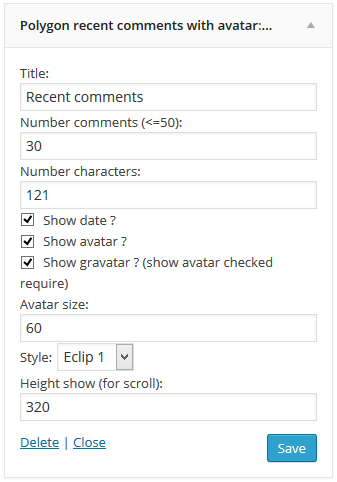
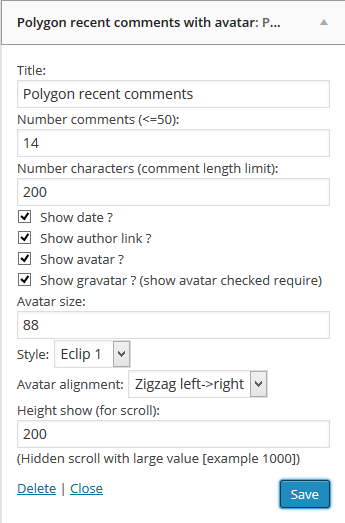
Update version 1.0.1 and fixed issue
git-svn-id: https://plugins.svn.wordpress.org/polygon-recent-comments-with-avatar/trunk@1101642 b8457f37-d9ea-0310-8a92-e5e31aec5664

Changed region(s): [[0.0, 0.0, 1.0, 1.0], [0.9199, 0.8091, 0.9496, 0.8714], [0.9199, 0.6846, 0.9496, 0.7158]]

diff --git a/polygon-recent-comments-with-avatar.php b/polygon-recent-comments-with-avatar.php
@@ -3,7 +3,7 @@
   Plugin Name: Polygon recent comments with avatar
   Plugin URI: http://cafefreelancer.com/vi/wordpress/wordpress-plugins/polygon-plugins/
   Description: Recent comments with image avatar, support gravatar, date, user
-  Version: 1.0
+  Version: 1.0.1
   Author: CafeFreelancer.com
   Author URI: http://CafeFreelancer.com
   License: GPLv2
@@ -46,14 +46,16 @@ class POLYGON_Widget_Recent_Comments extends WP_Widget {
         $num_comments = (isset($instance['num_comments']) ) ? $instance['num_comments'] : 5;
         $avatar_size = (isset($instance['avatar_size']) ) ? $instance['avatar_size'] : 88;
         $num_split= (isset($instance['num_split']) ) ? $instance['num_split'] : 121;
-        $show_date = (isset($instance['show_date'] )) ? $instance['show_avatar'] : 'false';
-        $show_avatar = (isset($instance['show_avatar'])) ? $instance['show_avatar'] : 'false';
-        $show_gravatar = (isset($instance['show_gravatar'])) ? $instance['show_gravatar'] : 'false';
+        $show_date = (isset($instance['show_date'] ) && !empty($instance['show_date'])) ? $instance['show_date'] : '';
+        $show_comment_link = (isset($instance['show_comment_link'] ) && !empty($instance['show_comment_link'])) ? $instance['show_comment_link'] : '';
+        $show_avatar = (isset($instance['show_avatar'])&& !empty($instance['show_avatar'])) ? $instance['show_avatar'] : '';
+        $show_gravatar = (isset($instance['show_gravatar'])&& !empty($instance['show_gravatar'])) ? $instance['show_gravatar'] : '';
         $avatar_layout = (isset($instance['avatar_layout']) ) ? $instance['avatar_layout'] : 'square';
+        $avatar_alignment = (isset($instance['avatar_alignment']) ) ? $instance['avatar_alignment'] : 'palignleft';
         $height_show = (isset($instance['height_show']) ) ? $instance['height_show'] : 200;
         //Get comments;
         $comments = get_comments(apply_filters('widget_comments_args', array('number' => $num_comments, 'status' => 'approve', 'post_status' => 'publish', 'type' => 'comment')));
-
+      
         if (!empty($comments)){
             $output .= $before_widget;
             if ($title)
@@ -62,7 +64,7 @@ class POLYGON_Widget_Recent_Comments extends WP_Widget {
             $output .= '<ul id="recentcomments">';
             if ($comments) {
                 ?>
-<style type="text/css">ul#recentcomments {list-style: none;padding: 0;margin: 0;max-height:<?php echo $height_show;?>px;overflow-y:auto;overflow-x:hidden}ul#recentcomments li.recentcomments {border-bottom: 1px solid #C6C6C6;margin: 0 0 8px;padding: 0 0 9px;background-image: none;list-style: none;display: inline-block}ul#recentcomments .alignleft { margin: 0 8px 0 0;padding: 0}ul#recentcomments img.avatar {background-color: #FFFFFF;border: 1px solid #C6C6C6;box-shadow: none;padding: 4px;margin: 0}ul#recentcoments .date{color:#CCC;font-size:12px;font-style:italic}.circle{border-radius: 50%;}.square{border-radius: 0%;}.eclip1{border-top-left-radius: 50%; border-top-right-radius: 0%; border-bottom-right-radius: 50%; border-bottom-left-radius: 0%;}.eclip2{border-top-left-radius: 0%; border-top-right-radius: 50%; border-bottom-right-radius: 0%; border-bottom-left-radius: 50%;}.eclip3{border-radius: 20% 50%;}.eclip4{border-radius: 50% 20%;}</style>
+<style type="text/css">ul#recentcomments {list-style: none;padding: 0;margin: 0;max-height:<?php echo $height_show;?>px;overflow-y:auto;overflow-x:hidden}ul#recentcomments li.recentcomments {border-bottom: 1px solid #C6C6C6;margin: 0 0 8px;padding: 0 0 9px;background-image: none;list-style: none;display: inline-block;clear:both}ul#recentcomments .palignleft,ul#recentcomments .palignleftright-0,ul#recentcomments .palignrightleft-1 {float:left; margin: 0 8px 0 0;padding: 0}ul#recentcomments .palignright,ul#recentcomments .palignrightleft-0,ul#recentcomments .palignleftright-1 {float:right; margin: 0 0 8px 0;padding: 0}ul#recentcomments img.avatar {background-color: #FFFFFF;border: 1px solid #C6C6C6;box-shadow: none;padding: 4px;margin: 0}ul#recentcoments .date{color:#CCC;font-size:12px;font-style:italic}.circle{border-radius: 50%;}.square{border-radius: 0%;}.eclip1{border-top-left-radius: 50%; border-top-right-radius: 0%; border-bottom-right-radius: 50%; border-bottom-left-radius: 0%;}.eclip2{border-top-left-radius: 0%; border-top-right-radius: 50%; border-bottom-right-radius: 0%; border-bottom-left-radius: 50%;}.eclip3{border-radius: 20% 50%;}.eclip4{border-radius: 50% 20%;}</style>
 <?php
                     if (!function_exists('polygon_validate_gravatar')){
 			function polygon_validate_gravatar($email) {
@@ -78,36 +80,48 @@ class POLYGON_Widget_Recent_Comments extends WP_Widget {
 				return $has_valid_avatar;
 			}
                     }
+                    if (!function_exists('get_Gravatar_Author')){
+                    function get_Gravatar_Author($email,$size){
+                            $email = trim($email);
+                            $email = strtolower($email);
+                            $email_hash = md5($email);
+                            return '<img class="comment-avatar-plc" src="http://www.gravatar.com/avatar/'. $email_hash. '?s='.$size.'" />';
+                    }}
 
                 // Prime cache for associated posts. (Prime post term cache if we need it for permalinks.)
                 $post_ids = array_unique(wp_list_pluck($comments, 'comment_post_ID'));
                 _prime_post_caches($post_ids, strpos(get_option('permalink_structure'), '%category%'), false);
-				$matchSrc = "/src=[\"' ]?([^\"' >]+)[\"' ]?[^>]*>/i" ;
-                foreach ((array) $comments as $comment) {
+		$matchSrc = "/src=[\"' ]?([^\"' >]+)[\"' ]?[^>]*>/i" ;
+                foreach ((array) $comments as $key=>$comment) {
                     $post_title_current = get_the_title($comment->comment_post_ID);
+                    $comment_link=($show_comment_link=='on')?get_comment_author_link():get_comment_author();
                     //Format date
                     $d = "d/m/Y";
                     //Format time
                     $t = "g:i A";
-					
 		$email=$comment->comment_author_email;
                     //Display Gravatar;
-                    if ($show_gravatar == true && polygon_validate_gravatar($email)) {
+                    if ($show_gravatar == 'on' && polygon_validate_gravatar($email)) {
                         $avatar = get_Gravatar_Author($email, $avatar_size);
                     } else {
-                        $avatar = get_avatar($email, $avatar_size);
+                        $avatar = get_avatar($email, $avatar_size);//functions only default gravatar;
                     }
 
                     preg_match($matchSrc, $avatar, $matches);
 					$theImageUrl = $matches[1];
-					
                     $cus_comment_date = get_comment_date($d, $comment->comment_ID) . __(' at ') . get_comment_date($t, $comment->comment_ID);
                     $output .= '<li class="recentcomments">';
-                    $output.=($show_avatar==true)? '<div class="alignleft"><img src="'.$theImageUrl.'" width="'.$avatar_size.'" height="'.$avatar_size.'" class="'.$avatar_layout.'" style="float: left; margin-right: 10px;  background-color: rgb(255, 255, 255); padding: 3px; border: 1px solid rgb(214, 214, 214); width: '.$avatar_size.'px; height: '.$avatar_size.'px;" /></div>':'';
-                    $output .='<b>' . get_comment_author_link() . '</b> '.__('on') . ' <a href="' . esc_url(get_comment_link($comment->comment_ID)) . '">' . $post_title_current . '</a> ';
+                    if(strpos($avatar_alignment,'rightleft')!==false || strpos($avatar_alignment,'leftright')!==false){
+                        $cur_avatar_align=$avatar_alignment.'-'.($key%2);
+                    }else{
+                        $cur_avatar_align=$avatar_alignment;
+                    }
+                    $output.=($show_avatar=='on')? '<div class="'.$cur_avatar_align.'"><img src="'.$theImageUrl.'" width="'.$avatar_size.'" height="'.$avatar_size.'" class="'.$avatar_layout.'" style="float: left; margin-right: 10px;  background-color: rgb(255, 255, 255); padding: 3px; border: 1px solid rgb(214, 214, 214); width: '.$avatar_size.'px; height: '.$avatar_size.'px;" /></div>':'';
+                    $output .='<b>' . $comment_link . '</b> '.__('on') . ' <a href="' . esc_url(get_comment_link($comment->comment_ID)) . '">' . $post_title_current . '</a> ';
                     $cur_comment=strip_tags($comment->comment_content);
                     $output .=mb_substr($cur_comment, 0, $num_split);
-                    if ($show_date == true) {
+                    
+                    if ($show_date == 'on') {
                         $output.= ' <span class="date">(' . $cus_comment_date . ')</span>';
                     }
                     $output.= '</li>';
@@ -128,20 +142,25 @@ class POLYGON_Widget_Recent_Comments extends WP_Widget {
         $avatar_size = (!empty($instance['avatar_size']) ) ? $instance['avatar_size'] : 88;
         $num_split= (!empty($instance['num_split']) ) ? $instance['num_split'] : 121;
          $avatar_layout = (isset($instance['avatar_layout']))?((!empty($instance['avatar_layout']) ) ? $instance['avatar_layout'] : 'square'):'square';
-        $show_date = (!empty($instance['show_date']) ) ? $instance['show_date'] : 'false';
+         $avatar_alignment = (isset($instance['avatar_alignment']))?((!empty($instance['avatar_alignment']) ) ? $instance['avatar_alignment'] : 'palignleft'):'palignleft';
+        $show_date = (!empty($instance['show_date']) ) ? $instance['show_date'] : '';
         $height_show = (isset($instance['height_show']))?((!empty($instance['height_show']) ) ? $instance['height_show'] : 200):200;
-        $show_avatar = (!empty($instance['show_avatar']) ) ? $instance['show_avatar'] : 'false';
-        $show_gravatar = (!empty($instance['show_gravatar']) ) ? $instance['show_gravatar'] : 'false';
+        $show_avatar = (!empty($instance['show_avatar']) ) ? $instance['show_avatar'] : '';
+        $show_comment_link= (!empty($instance['show_comment_link']) ) ? $instance['show_comment_link'] : '';
+        $show_gravatar = (!empty($instance['show_gravatar']) ) ? $instance['show_gravatar'] : '';
         ?>
         <p>
             <label for="<?php echo $this->get_field_id('title'); ?>"><?php _e('Title:'); ?></label> 
             <input class="widefat" id="<?php echo $this->get_field_id('title'); ?>" name="<?php echo $this->get_field_name('title'); ?>" type="text" value="<?php echo esc_attr($title); ?>" />
             <label for="<?php echo $this->get_field_id('num_comments'); ?>"><?php _e('Number comments (<=50):'); ?></label> 
             <input class="widefat" id="<?php echo $this->get_field_id('num_comments'); ?>" name="<?php echo $this->get_field_name('num_comments'); ?>" type="text" value="<?php echo esc_attr($num_comments); ?>" />
-<label for="<?php echo $this->get_field_id('num_split'); ?>"><?php _e('Number characters:'); ?></label>
+<label for="<?php echo $this->get_field_id('num_split'); ?>"><?php _e('Number characters (comment length limit):'); ?></label>
 <input class="widefat" id="<?php echo $this->get_field_id('num_split'); ?>" name="<?php echo $this->get_field_name('num_split'); ?>" type="text" value="<?php echo esc_attr($num_split); ?>" />
 <input class="widefat" id="<?php echo $this->get_field_id('show_date'); ?>" name="<?php echo $this->get_field_name('show_date'); ?>" type="checkbox" <?php checked($instance['show_date'], 'on'); ?> />
 <label for="<?php echo $this->get_field_id('show_date'); ?>"><?php _e('Show date ?'); ?></label> <br/>
+<input class="widefat" id="<?php echo $this->get_field_id('show_comment_link'); ?>" name="<?php echo $this->get_field_name('show_comment_link'); ?>" type="checkbox" <?php checked($instance['show_comment_link'], 'on'); ?> />
+<label for="<?php echo $this->get_field_id('show_comment_link'); ?>"><?php _e('Show author link ?'); ?></label> <br/>
+
 <input class="widefat" id="<?php echo $this->get_field_id('show_avatar'); ?>" name="<?php echo $this->get_field_name('show_avatar'); ?>" type="checkbox" <?php checked($instance['show_avatar'], 'on'); ?> />
 <label for="<?php echo $this->get_field_id('show_avatar'); ?>"><?php _e('Show avatar ?'); ?></label>
 <br/>
@@ -161,10 +180,17 @@ class POLYGON_Widget_Recent_Comments extends WP_Widget {
                 <option value='eclip4'  <?php echo ($avatar_layout == 'eclip4') ? 'selected' : '' ?>>Eclip 4</option>
             </select>
             <br/>
-            
+            <label for="<?php echo $this->get_field_id('avatar_alignment'); ?>"><?php _e('Avatar alignment:'); ?></label> 
+            <select name="<?php echo $this->get_field_name('avatar_alignment'); ?>" id="<?php echo $this->get_field_id('avatar_alignment'); ?>">
+                <option value='palignleft' <?php echo ($avatar_alignment == 'palignleft') ? 'selected' : '' ?>>Left</option>
+                <option value='palignright'  <?php echo ($avatar_alignment == 'palignright') ? 'selected' : '' ?>>Right</option>
+                <option value='palignleftright'  <?php echo ($avatar_alignment == 'palignleftright') ? 'selected' : '' ?>>Zigzag left->right</option>
+                <option value='palignrightleft'  <?php echo ($avatar_alignment == 'palignrightleft') ? 'selected' : '' ?>>Zigzag right->left</option>
+            </select>
+            <br/>
             <label for="<?php echo $this->get_field_id('height_show'); ?>"><?php _e('Height show (for scroll):'); ?></label> 
                 <input class="widefat" id="<?php echo $this->get_field_id('height_show'); ?>" name="<?php echo $this->get_field_name('height_show'); ?>" type="text" value="<?php echo esc_attr($height_show); ?>" />
-        <br/></p>
+        <br/>(Hidden scroll with large value [example 1000])</p>
         <?php
     }
 
@@ -174,9 +200,11 @@ class POLYGON_Widget_Recent_Comments extends WP_Widget {
         $instance['num_comments'] = (!empty($new_instance['num_comments']) ) ? ($new_instance['num_comments'] <= 50) ? $new_instance['num_comments'] : 12 : '';
         $instance['num_split'] = (!empty($new_instance['num_split']) ) ? ($new_instance['num_split'] <= 250) ? $new_instance['num_split'] : 121 : '';
         $instance['show_date'] = strip_tags($new_instance['show_date']);
+        $instance['show_comment_link'] = strip_tags($new_instance['show_comment_link']);
         $instance['show_avatar'] = strip_tags($new_instance['show_avatar']);
         $instance['show_gravatar'] = strip_tags($new_instance['show_gravatar']);
         $instance['avatar_layout'] =  $new_instance['avatar_layout'];
+        $instance['avatar_alignment'] =  $new_instance['avatar_alignment'];
         $instance['avatar_size'] = (!empty($new_instance['avatar_size']) ) ? strip_tags($new_instance['avatar_size']) : '88';
         $instance['height_show']= (!empty($new_instance['height_show']) ) ? ($new_instance['height_show'] <= 500) ? $new_instance['height_show'] : 200 : 200;
         return $instance;
